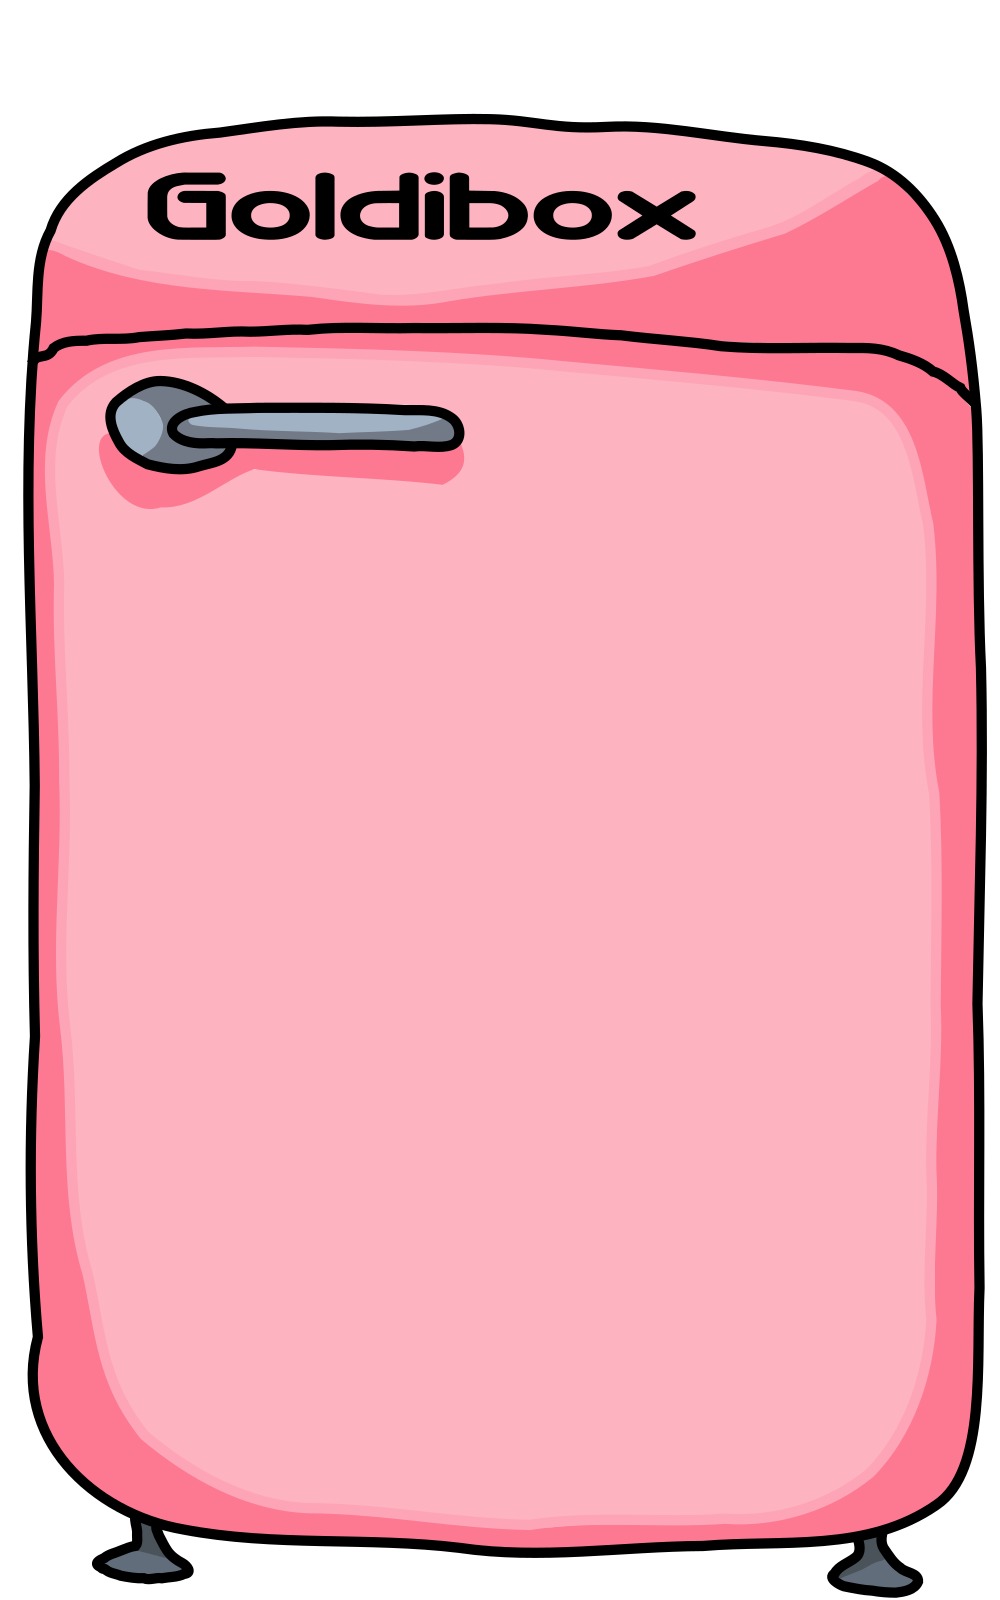
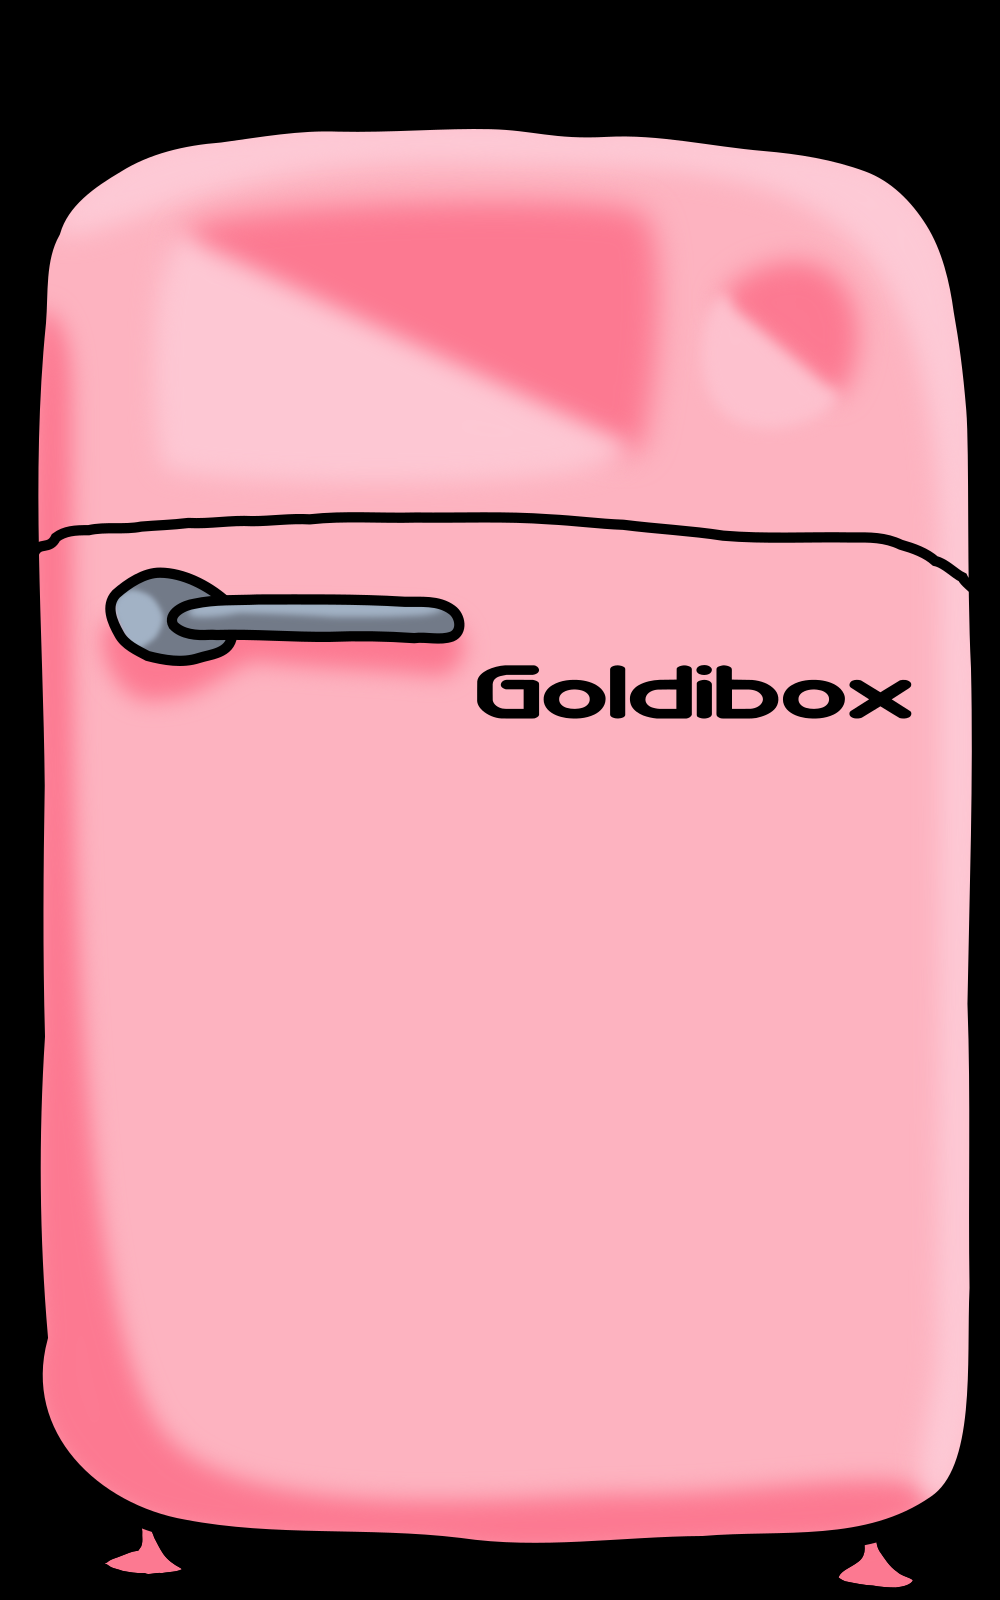
goldibox-remote/debug.qml:  re-orient thermostat

diff --git a/qml/goldibox-remote/debug.qml b/qml/goldibox-remote/debug.qml
@@ -66,12 +66,12 @@ ApplicationWindow {
 	    z: 5
 
 	    // Relative sizing hell:  Constants determined empirically
-            width: fridge.paintedWidth * 0.73
+            width: fridge.paintedWidth * 0.62
             anchors.horizontalCenter: fridge.horizontalCenter
-            anchors.horizontalCenterOffset: fridge.paintedHeight * 0.07
+            anchors.horizontalCenterOffset: fridge.paintedHeight * -0.04
             anchors.verticalCenter: fridge.verticalCenter
-            anchors.verticalCenterOffset: fridge.paintedWidth * 0.24
-            rotation: -25
+            anchors.verticalCenterOffset: fridge.paintedWidth * 0.42
+            rotation: 55
 
         }
 
@@ -92,10 +92,11 @@ ApplicationWindow {
 
 	    // Geometry
 	    width: fridge.paintedWidth * 0.10
-	    height: fridge.paintedWidth * 0.10
-            x: fridge.paintedWidth * 0.82
-            y: fridge.paintedWidth * 0.18
+        height: fridge.paintedWidth * 0.10
+        x: fridge.paintedWidth * 0.82
+        y: fridge.paintedWidth * 0.18
         }
+
     }
 
     ColumnLayout {
